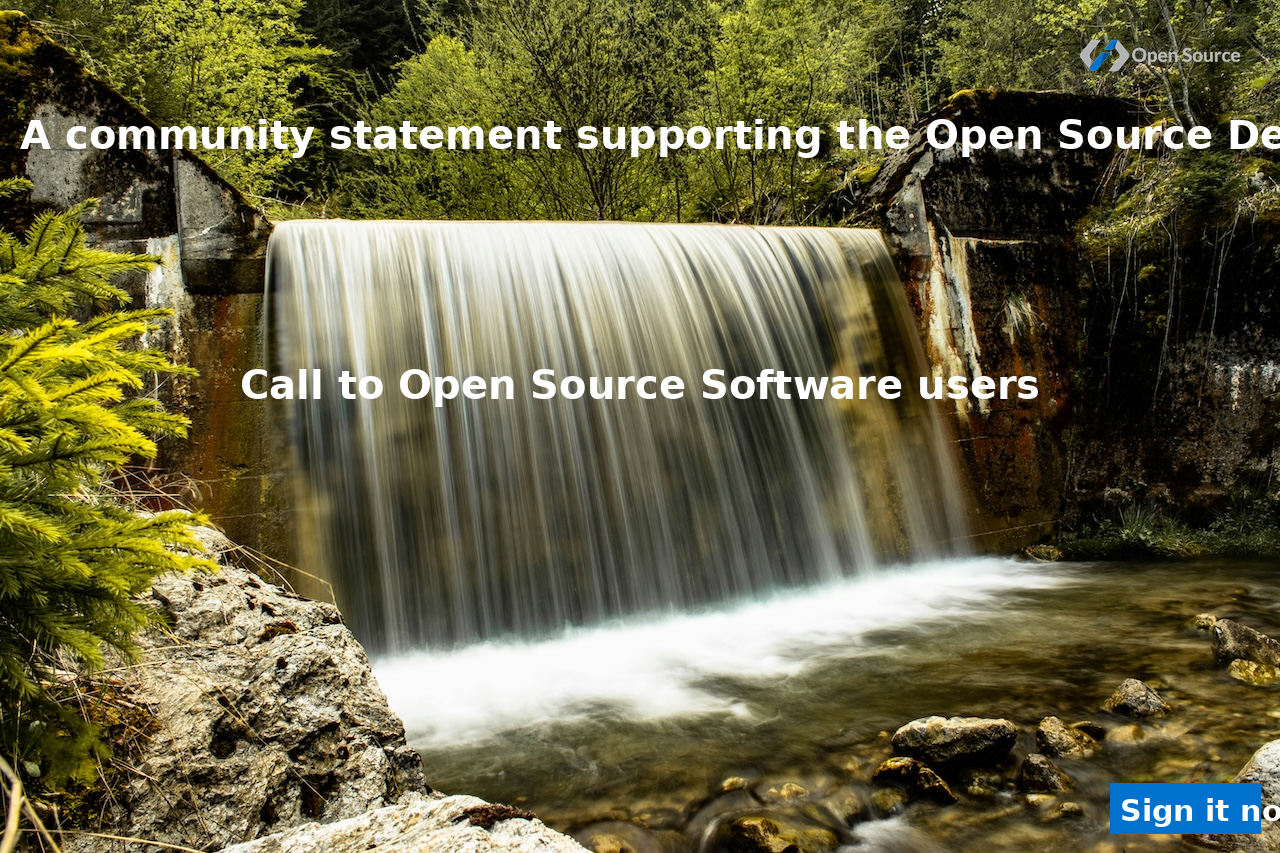
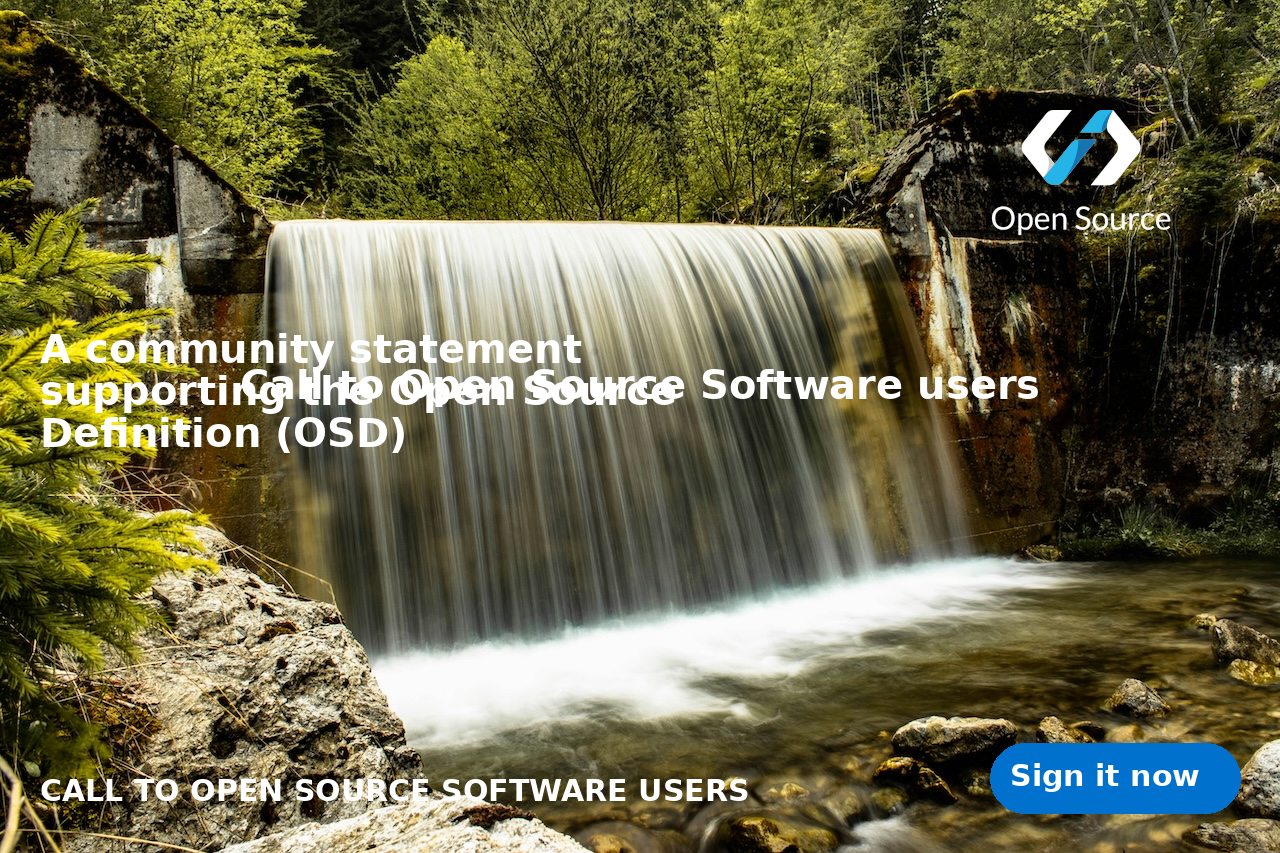
image

diff --git a/_scripts/image.py b/_scripts/image.py
@@ -6,6 +6,7 @@ from PIL import Image, ImageDraw, ImageFont, ImageOps
 from pathlib import Path
 import cairosvg
 import io
+import textwrap
 
 # Determine the script's directory
 script_dir = Path(__file__).resolve().parent
@@ -75,9 +76,9 @@ def resize_logo(image, max_width, max_height):
     return image.resize((new_width, new_height), Image.LANCZOS)
 
 # Resize and position the logo
-logo_size = (200, 200)  # Adjust max size as needed
+logo_size = (600, 600)  # Increase max size significantly
 logo_image = resize_logo(logo_image, *logo_size)
-logo_position = (background_image.width - logo_image.width - 20, 20)  # Top right with padding
+logo_position = (background_image.width - logo_image.width - 40, 40)  # Top right with more padding
 
 # Load the main font
 main_font = ImageFont.truetype(str(FONT_PATH), 40)  # Adjust the size as needed
@@ -112,13 +113,13 @@ def create_image(text_main, text_call_to_action, button_text, language_code):
     # Paste the logo
     img.paste(logo_image, logo_position, logo_image)
 
-    # Draw main text, wrapping to fit
+    # Draw the main title text, wrapping to fit
+    text_main_wrapped = "\n".join(textwrap.wrap(text_main, width=30))  # Adjust width for wrapping
     draw.text(
-        (20, logo_image.height + 40),  # Position below the logo
-        text_main,
+        (40, logo_image.height + 60),  # Position below the logo with more padding
+        text_main_wrapped,
         font=main_font,
-        fill=TEXT_COLOR,
-        width=background_image.width - 40  # Allow some padding on the sides
+        fill=TEXT_COLOR
     )
 
     # Draw call-to-action text
@@ -131,20 +132,30 @@ def create_image(text_main, text_call_to_action, button_text, language_code):
         fill=TEXT_COLOR
     )
 
-    # Adjust button color and position
-    button_color = "#0072CE"  # Blue color from the logo
-    button_size = (150, 50)  # Adjust size as needed
-    button_position = (background_image.width - button_size[0] - 20, background_image.height - button_size[1] - 20)  # Bottom right with padding
+    # Draw additional text in bottom left
+    additional_text = "CALL TO OPEN SOURCE SOFTWARE USERS"
+    draw.text(
+        (40, background_image.height - 80),  # Bottom left with padding
+        additional_text,
+        font=button_font,  # Use smaller font
+        fill=TEXT_COLOR
+    )
 
-    # Draw the button
-    draw.rectangle(
+    # Adjust button color, position, and shape
+    button_color = "#0072CE"  # Blue color from the logo
+    button_size = (250, 70)  # Adjust size for pill shape
+    button_position = (background_image.width - button_size[0] - 40, background_image.height - button_size[1] - 40)  # Bottom right with more padding
+
+    # Draw the pill-shaped button
+    draw.rounded_rectangle(
         [button_position, (button_position[0] + button_size[0], button_position[1] + button_size[1])],
+        radius=35,  # Radius for pill shape
         fill=button_color
     )
 
     # Draw button text
     draw.text(
-        (button_position[0] + 10, button_position[1] + 10),  # Center text within the button
+        (button_position[0] + 20, button_position[1] + 15),  # Center text within the button
         button_text,
         font=button_font,
         fill="white"
